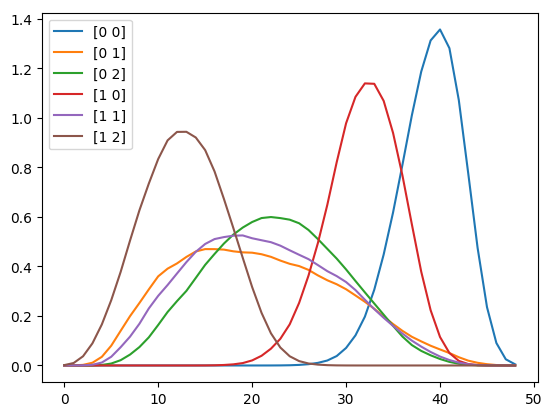
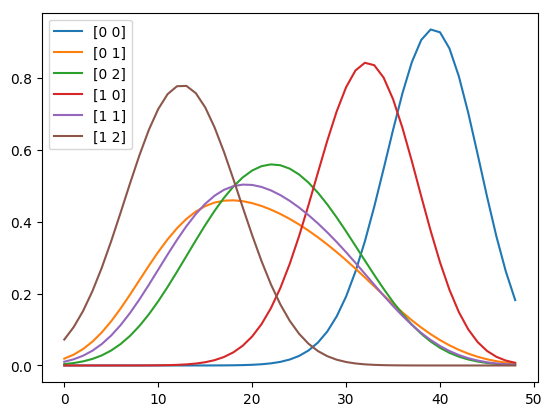
changed reg parameter for ot lib to avoid nans in calculation

diff --git a/src/main.py b/src/main.py
@@ -53,7 +53,7 @@ def rerank_with_cfa(thetas, result_dir, pathToData, pathToGroups, qual_attr):
     if groups.shape[0] != len(thetas):
         raise ArgumentError("invalid number of thetas. Specify one theta per group.")
 
-    regForOT = 1e-3
+    regForOT = 1e-2
 
     scoresPerGroup = scoresByGroups(data, groups, qual_attr)
     groupSizes = scoresPerGroup.count().divide(data.shape[0])
